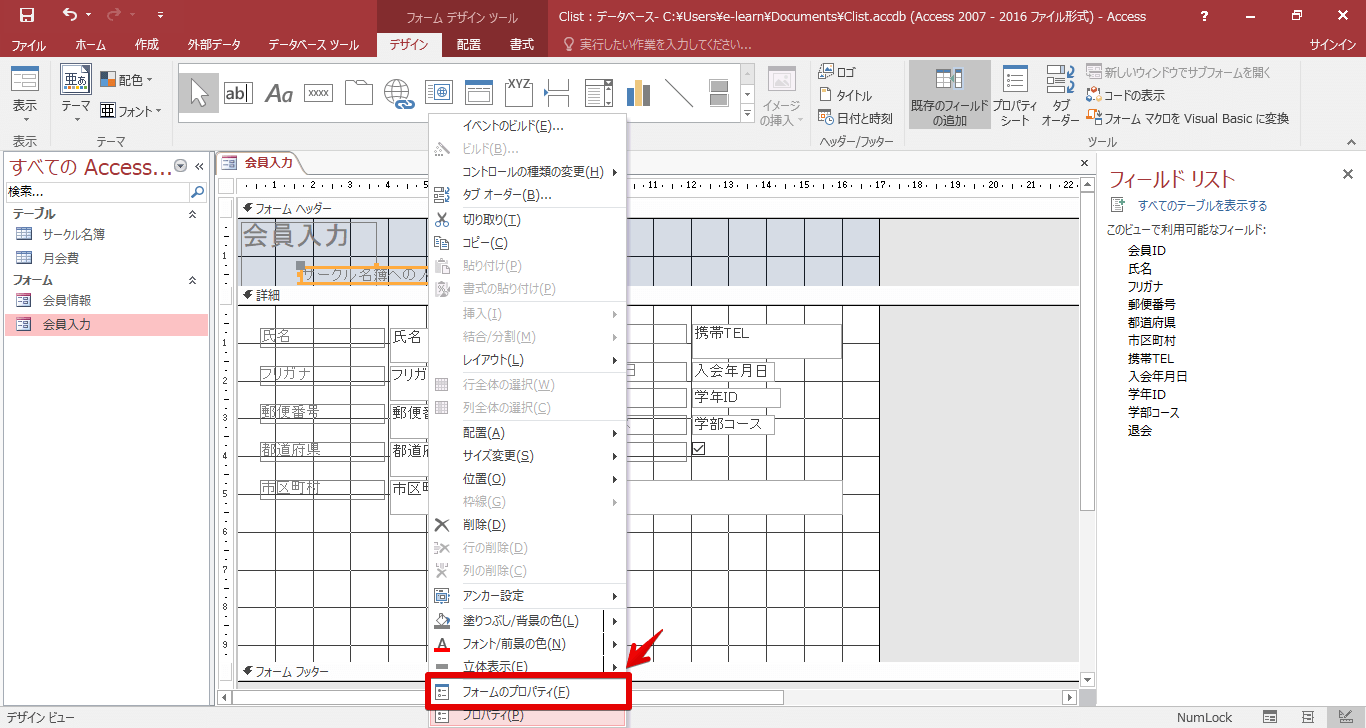
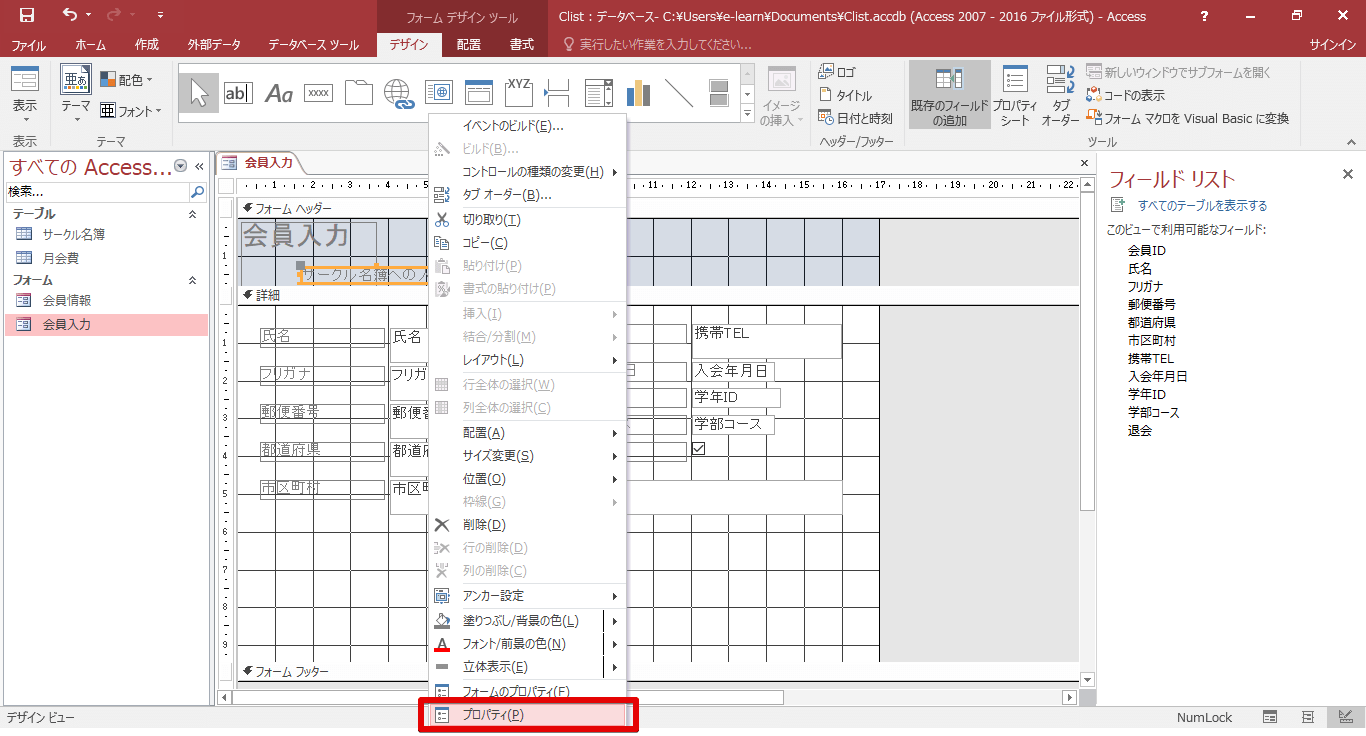
文章と画像の修正を行いました。#757
*文章は正しい操作手順に変更
*画像は誤った範囲が枠で囲ってあったので修正

diff --git a/contents/office2016/access/02/index.md b/contents/office2016/access/02/index.md
@@ -104,14 +104,13 @@ purposes:
 
 {% screenshot control2.png "追加の確定" %}
 
-&#9315; もう一度、"サークル名簿への入力"と入力したラベルコントロールをアクティブにします。
+&#9315; "サークル名簿への入力"と入力したラベルコントロールを右クリックします。"プロパティ"をクリックし、"プロパティシート"を開きます。[書式]タブの"フォントサイズ"を `10` に変更します。
 
-&#9316; "プロパティシート"を開き、[書式]タブの"フォントサイズ"を `10` に変更します。
-またコントロールの大きさを適当に調節します。
+&#9316; ラベルコントロールの大きさを適当に調節します。
 
 {% screenshot control3.png "フォームのプロパティの選択" %}
 
-&#9316; フォームビューに戻り、上書き保存してください。
+&#9317; フォームビューに戻り、上書き保存してください。
 
 
 ### フォームで新しいレコードを入力
